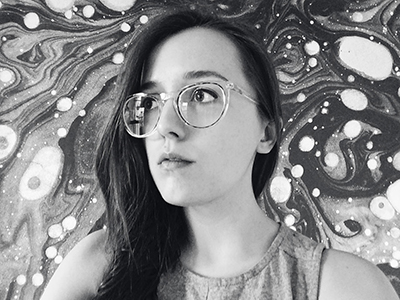
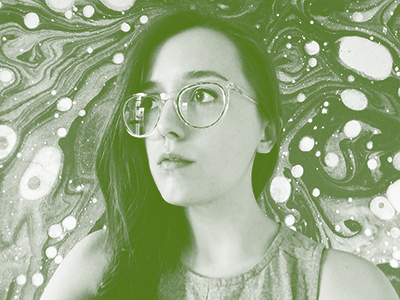
Add green to about.html

diff --git a/about.html b/about.html
@@ -93,9 +93,9 @@
 	}
 
 		#bio img {
-		    filter: url(filters.svg#grayscale); /* Firefox 3.5+ */
-		    filter: gray; /* IE6-9 */
-		    -webkit-filter: grayscale(1); /* Google Chrome & Safari 6+ */
+		    /*filter: url(filters.svg#grayscale); 
+		    filter: gray; 
+		    -webkit-filter: grayscale(1); */
 		    margin-left: -70px;
 		    margin-top: 40px;
 		    height: 300px;
@@ -199,7 +199,7 @@
 		bottom: 0;
 		z-index: 15;
 		margin-right: 40px;
-		margin-bottom: 36px;
+		margin-bottom: 38px;
 		font-family: Helvetica;
 		font-size: 25px;
 		color: #507410;
@@ -391,7 +391,7 @@
 		<div id="bio">
 			<img src="style/me.jpg">
 			<h3><span>About</span></h3>
-			<h1>New graduate of RISD. From Seattle. Loves weird display type, fresh flowers, English quiz shows, and a good sentence.</h1>
+			<h1>New graduate of RISD. From Seattle. Into weird display type, fresh flowers, English quiz shows, and a good sentence.</h1>
 		</div>
 
 		<div id="details">

diff --git a/index.html b/index.html
@@ -233,7 +233,7 @@
 		<h3><span><a href="archive.html">Archive</a></span></h3>
 	</div>-->
 
-	<div id="trigger"><a href="commencement.html"><img src="style/images/portals_4.jpg"></a></div>
+	<!--<div id="trigger"><a href="commencement.html"><img src="style/images/portals_4.jpg"></a></div>-->
 	<div id="trigger"><a href="shakeygraves.html"><img src="style/images/shakeyGraves_3.jpg"></a></div>
 	<div id="trigger"><a href="loststolen.html"><img src="style/images/loststolen_1.jpg"></a></div>
 	<div id="trigger"><a href="lulz.html"><img src="style/images/multiple_2.jpg"></a></div>
